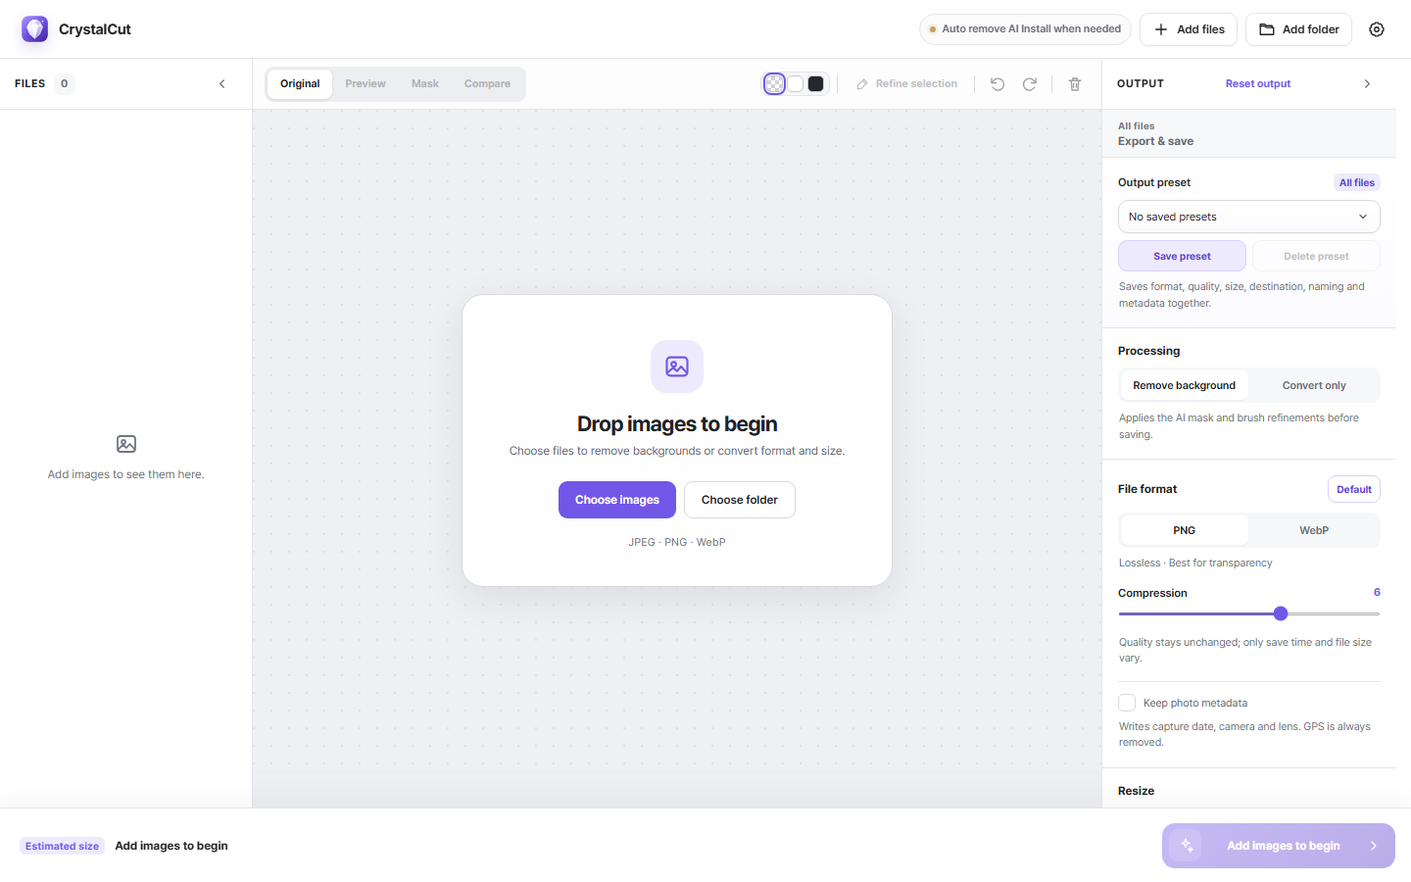
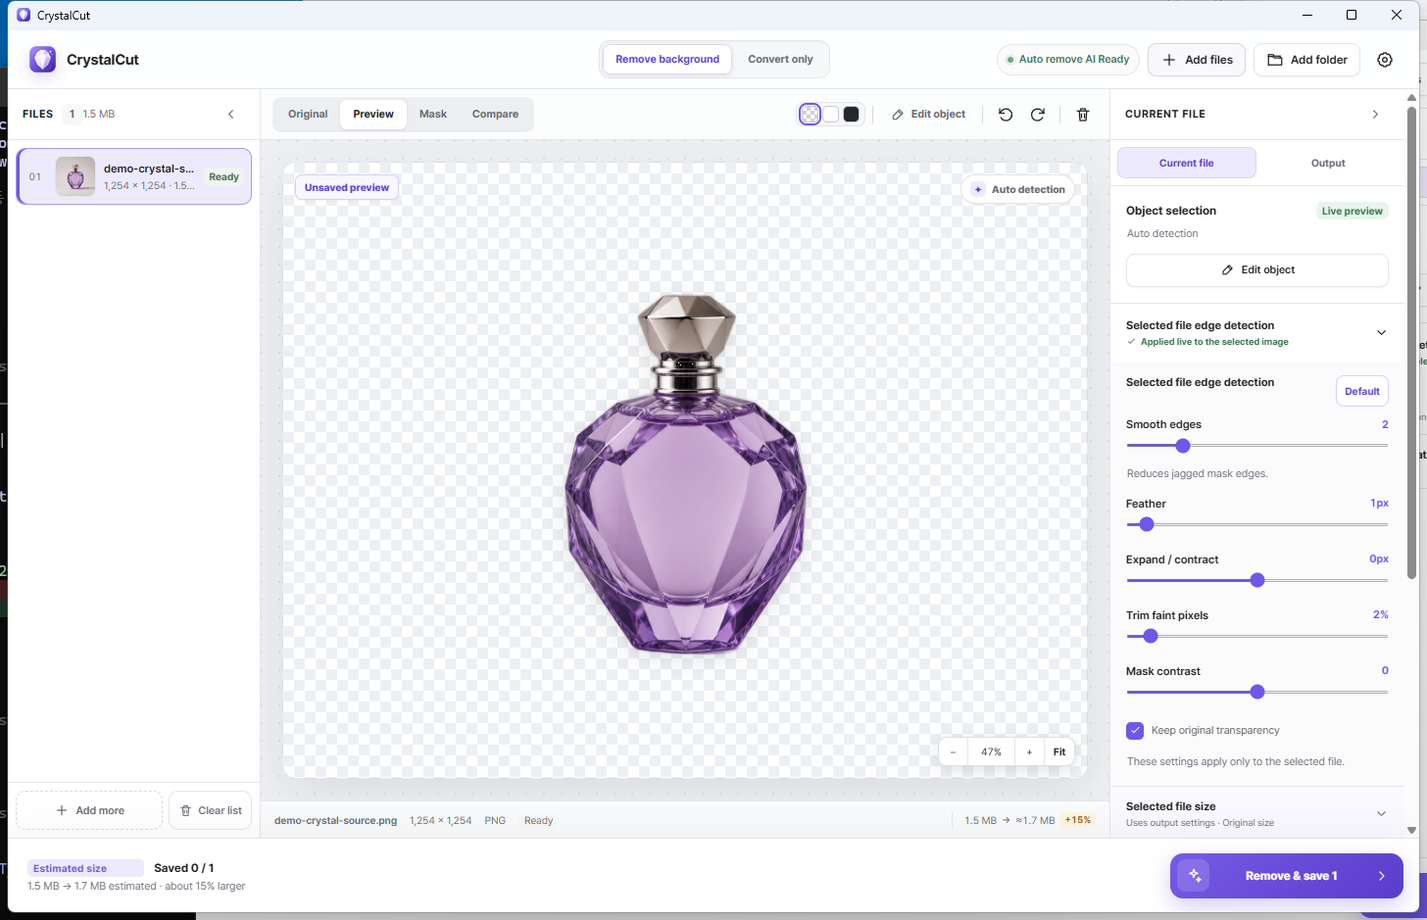
docs: v1.0.2 릴리스 문서와 최신 화면 정비
- 현재 UI로 작업 화면 스크린샷을 교체하고 투명 결과 비교 화면을 추가했습니다.

- 자동 제거, SlimSAM, 수동 마스크와 파일별 가장자리·크기·메타데이터 설정을 README에 상세히 정리했습니다.

- 다중 선택, 원본·결과 저장, 드래그 순서 변경, 변환 전용 모드와 출력 프리셋 사용법을 반영했습니다.

- 9개 언어 446개 문구, 로컬 처리 원칙, 설치 패키지, 빌드·검증·태그 배포 절차를 최신화했습니다.

- GitHub v1.0.2 릴리스 노트를 전체 주요 기능과 안정성 수정 중심으로 보강했습니다.

- 최신 Clippy에서 오류가 되는 테스트 구조체의 불필요한 기본값 갱신 구문을 제거했습니다.

diff --git a/src-tauri/src/engine.rs b/src-tauri/src/engine.rs
@@ -941,7 +941,6 @@ mod tests {
             gps_latitude: Some(37.5665),
             gps_longitude: Some(126.9780),
             orientation: 6,
-            ..metadata::ExifSummary::default()
         };
 
         for format in [OutputFormat::Png, OutputFormat::Webp] {

diff --git a/README.md b/README.md
@@ -1,11 +1,11 @@
 <p align="center">
-  <img src="assets/app-icon.svg" alt="CrystalCut" width="112" />
+  <img src="assets/app-icon.svg" alt="CrystalCut logo" width="112" />
 </p>
 
 <h1 align="center">CrystalCut</h1>
 
 <p align="center">
-  Fast, local-first background removal and batch image conversion for Windows and macOS.
+  Fast, private background removal and batch image conversion for Windows and macOS.
 </p>
 
 <p align="center">
@@ -13,72 +13,105 @@
   <img alt="Apache License 2.0" src="https://img.shields.io/badge/license-Apache--2.0-blue" />
   <img alt="Tauri 2" src="https://img.shields.io/badge/Tauri-2-24C8DB?logo=tauri&logoColor=white" />
   <img alt="Rust" src="https://img.shields.io/badge/engine-Rust-000000?logo=rust&logoColor=white" />
-  <img alt="Local processing" src="https://img.shields.io/badge/processing-local--first-2f855a" />
+  <img alt="Local-first processing" src="https://img.shields.io/badge/processing-local--first-2f855a" />
   <img alt="9 languages" src="https://img.shields.io/badge/languages-9-4f46e5" />
 </p>
 
 <p align="center">
-  <a href="../../releases/latest"><strong>Download the latest release</strong></a>
+  <a href="https://github.com/pkh31337/CrystalCut/releases/latest"><strong>Download</strong></a>
   ·
-  <a href="#quick-start">Build from source</a>
+  <a href="#features">Features</a>
+  ·
+  <a href="#build-from-source">Build from source</a>
   ·
   <a href="#한국어-안내">한국어 안내</a>
 </p>
 
-CrystalCut turns background removal into a dependable desktop workflow: add one image or a whole folder, review the result instantly, refine the object when needed, and export optimized PNG or WebP files with one click. Images stay on your computer; only the pinned AI model files are downloaded on first use.
+CrystalCut turns background removal into a practical desktop workflow. Add one image or a whole folder, inspect the result immediately, refine the selected object when necessary, and export optimized PNG or WebP files. Images remain on your computer; only pinned AI model files are downloaded on first use.
 
-![CrystalCut workspace](docs/assets/crystalcut-workspace.png)
+![CrystalCut workspace showing a transparent result and per-file controls](docs/assets/crystalcut-workspace.png)
 
-## Why CrystalCut?
+## Features
 
-| | Capability |
+| Capability | What it provides |
 | --- | --- |
-| **Private by design** | Background removal, previews, brush masks, resizing, metadata handling and encoding run locally. Images are not uploaded. |
-| **Fast batch workflow** | Drag in files or folders, preload thumbnails, process a queue, cancel safely, and retry only unfinished items. |
-| **Editable AI results** | Use automatic removal, SlimSAM object selection, a keep/remove brush, undo/redo and per-file edge controls. |
-| **More than a remover** | Convert without removing the background, rotate, resize, compress and rename an entire batch. |
-| **Predictable output** | Preview names and estimated sizes, avoid accidental overwrites, and save complete output presets. |
-| **Native desktop feel** | Tauri 2 shell, Rust processing engine, native pickers, app-specific context menus and no release console window on Windows. |
+| **Private by design** | Background removal, previews, masks, resizing, metadata handling, and encoding all run locally. Source images are never uploaded. |
+| **Three selection modes** | Start with automatic detection, guide SlimSAM with include/exclude marks, or paint a selection manually from an empty mask. |
+| **Live visual refinement** | Inspect the original, result, mask, or draggable comparison view while adjusting the selected file's edge settings. |
+| **Efficient file management** | Immediate thumbnails, multi-selection, drag reordering, original/result export, safe cancellation, and unfinished-item retry. |
+| **Flexible output** | Remove the background or convert only; resize, rotate, compress, rename, choose metadata, and save reusable presets. |
+| **Native desktop experience** | A lightweight Tauri 2 shell, Rust image engine, native dialogs, app-specific context menus, and no console window in Windows release builds. |
 
-## A three-step workflow
+## From files to finished assets
 
-1. **Add images** — choose JPEG, PNG or WebP files, select a folder, paste, or drag and drop.
-2. **Review and refine** — inspect the live result, zoom, pan, rotate, view the mask, or drag the comparison slider across the original and edited image.
-3. **Export once or in bulk** — remove backgrounds or convert only, then apply format, quality, size, metadata, destination and naming rules to the queue.
+1. **Add images** — choose JPEG, PNG, or WebP files, add a folder, paste, or drag and drop.
+2. **Select and refine** — use automatic detection, SlimSAM-assisted selection, or manual brushes; then tune edges per file.
+3. **Preview accurately** — zoom, pan, fit, rotate, inspect the mask, or drag the comparison divider across the original and transparent result.
+4. **Export once or in bulk** — apply output format, quality, dimensions, metadata, destination, and naming rules to selected files or the whole queue.
 
-## Editing and preview tools
+## Object selection and edge refinement
 
-- Automatic U2NetP background removal with a verified, pinned model download.
-- SlimSAM-assisted object selection using include/exclude marks.
-- Manual selection from an empty mask and brush refinement over an AI result.
-- Restore/erase brushes, adjustable brush size, undo, redo and clear actions.
-- Original, result, mask and split comparison views.
-- Wheel zoom, toolbar zoom, fit-to-screen and drag-to-pan navigation.
-- Live per-file edge preview for smoothing, feathering, mask expansion/contraction, faint-pixel trimming, contrast and original-alpha preservation.
+CrystalCut keeps the simple path one click away while exposing precise controls when a difficult image needs them.
 
-## Batch output
+- **Automatic detection:** U2NetP finds the primary foreground object without manual input.
+- **AI object selection:** SlimSAM uses include and exclude brush marks to identify the intended object.
+- **Manual selection:** begin with an empty mask and paint the area to keep.
+- Keep/remove brushes with combined brush and plus/minus icons, adjustable size, undo, redo, and clear actions.
+- Per-file smoothing, feathering, expand/contract, faint-pixel trimming, mask contrast, and original-alpha preservation.
+- Opening or closing an accordion only changes the interface; it never enables, disables, or regenerates an effect.
 
-### Formats and size
+## Preview that stays in context
+
+![CrystalCut comparison view with draggable original/result divider](docs/assets/crystalcut-compare.png)
+
+- **Original, Preview, Mask, and Compare** views share one stable canvas and aspect ratio.
+- The 100% zoom reference always uses the original image dimensions, even after transparent areas change the result bounds.
+- Mouse-wheel and toolbar zoom, fit-to-window, and drag-to-pan navigation.
+- Checkerboard, light, or dark preview backgrounds reveal transparent pixels correctly.
+- The comparison divider exposes the transparent result instead of showing the original beneath removed pixels.
+- Edge sliders and brush edits keep the Mask view active when that is the view being inspected.
+- The selected file's dimensions, format, status, and estimated output size remain visible below the preview.
+
+## Work list and multi-file operations
+
+- Thumbnails are generated as soon as files are added.
+- Use <kbd>Ctrl</kbd>/<kbd>Cmd</kbd> or <kbd>Shift</kbd> to select multiple items.
+- Multi-selection opens a focused file-management view for exporting all selected originals or processed results.
+- Drag one item or a selected group to reorder the queue; edge auto-scroll supports long lists.
+- Keyboard and context-menu reordering remain available when dragging is inconvenient.
+- Remove selected files, reveal them in the system file manager, copy paths, or clear the list from app-specific context menus.
+- Workspace state is persisted in SQLite so interrupted jobs and unfinished items can be recovered safely.
+
+## Output and conversion
+
+### Formats, quality, and dimensions
 
 - Input: **JPEG, PNG, WebP**
 - Output: **PNG, lossy WebP, lossless WebP**
-- Keep original dimensions, resize by percentage, or set the long edge in pixels.
-- Prevent upscaling of smaller source images.
-- Tune WebP quality or PNG compression effort and see an estimated size change before export.
-- Switch to **Convert only** to keep the background while applying rotation, resize, format and compression.
+- Adjust WebP quality or PNG compression and review an estimated size change before export.
+- Keep original dimensions, resize by percentage, or set the global long edge in pixels.
+- Override the global resize for one file with either an output width or height. Aspect ratio stays locked and upscaling can be prevented.
+- Rotate a selected image in 90-degree steps.
+- Choose **Convert only** to preserve the background while applying rotation, resize, format, compression, metadata, naming, and destination rules.
 
-### Destination and naming
+### Destination, naming, and presets
 
-- Save beside each original, into a new neighboring folder, or into one chosen folder.
-- Add a prefix or suffix, or build a reusable file-name template.
+- Save beside each original, in a new neighboring folder, or in one chosen folder.
+- Add a prefix or suffix, or create a reusable file-name template.
 - Available tokens: `{name}`, `{prefix}`, `{suffix}`, `{taken:yyMMdd_HHmmss}`, `{seq:03}`, `{camera}`, `{lens}`.
-- Missing EXIF values resolve deterministically to `undated`, `unknown-camera` and `unknown-lens`.
+- Missing EXIF values resolve deterministically to `undated`, `unknown-camera`, and `unknown-lens`.
 - Existing files are never overwritten silently; CrystalCut creates `name (2).png`, and so on.
-- Save format, quality, size, destination, naming and metadata as an output preset.
+- Save and restore the entire output configuration as a preset.
 
 ### Metadata and privacy
 
-CrystalCut reads a focused metadata summary for review, rotation and naming: capture date, camera, lens, description, recognized generation prompt/workflow and GPS coordinates. Output metadata is rebuilt field by field instead of copying the full original EXIF block. Capture details and descriptions can be preserved, while GPS and generation data are opt-in and disabled by default. Metadata edits affect new output files only; originals are never modified.
+CrystalCut reads a focused metadata summary for review, orientation, and naming: capture date, camera, lens, description, recognized generation prompt/workflow, and GPS coordinates. Output metadata is rebuilt field by field instead of copying an opaque EXIF block.
+
+- Preserve safe capture details and descriptions globally or override the policy for one selected file.
+- GPS location and generation prompts are separate opt-in choices and are disabled by default.
+- Edit important values for the selected file before export.
+- Disabling metadata preservation also disables and clears its dependent GPS and prompt choices.
+- Edits apply only to newly exported files; source files are never modified.
 
 ## Languages
 
@@ -94,49 +127,45 @@ CrystalCut follows the operating-system language by default and can be changed i
 - Français
 - Português (Brasil)
 
-All 355 interface messages—including toasts, errors, confirmations, context menus and accessibility labels—are covered in every supported locale. The build fails if a locale is missing a message.
+All 446 interface messages—including toasts, errors, confirmations, context menus, tooltips, and accessibility labels—are complete in every locale. An automated consistency check fails the build if a locale is missing a message or if an untranslated Korean UI literal escapes the catalogs.
 
 ## Download and installation
 
-Open [GitHub Releases](../../releases/latest) and choose the package for your computer:
+Open [GitHub Releases](https://github.com/pkh31337/CrystalCut/releases/latest) and choose the package for your computer:
 
-- **Windows x64:** the `setup.exe` installer is the simplest option; `.msi` is also published for managed environments.
-- **macOS Apple Silicon:** for M1, M2, M3, M4 and newer Apple chips.
+- **Windows x64:** use `setup.exe` for a standard installation or `.msi` for managed deployment.
+- **macOS Apple Silicon:** for Macs with M1, M2, M3, M4, or newer Apple chips.
 - **macOS Intel:** for older Intel-based Macs.
 
-Current community builds are unsigned. Windows SmartScreen or macOS Gatekeeper may therefore ask you to confirm the first launch. Code signing is intentionally kept separate from the public build workflow until signing credentials are configured.
+Community builds are currently unsigned. Windows SmartScreen or macOS Gatekeeper may therefore ask you to confirm the first launch. Code signing and notarization can be added later without placing credentials in the repository.
 
-The removal model and SlimSAM files are not bundled into the installer. They are downloaded only when needed, verified against pinned size/hash metadata, and cached in the application data folder. After installation, first-time AI use therefore requires an internet connection.
+The U2NetP and SlimSAM model files are not bundled in the installer. They are downloaded only when required, verified against pinned size and hash metadata, and cached in the application data folder. The first use of each AI feature therefore requires an internet connection; image processing itself stays local.
 
 ## Architecture
 
-```text
-React + TypeScript UI
-        │  typed Tauri commands / events
-        ▼
-Rust desktop coordinator ─── SQLite workspace and preferences
-        │  versioned JSONL over stdio
-        ▼
-Same executable in --worker mode
-        ├── ONNX Runtime inference (U2NetP / SlimSAM)
-        ├── mask and edge processing
-        └── rotate, resize, metadata and PNG/WebP encoding
+```mermaid
+flowchart LR
+    UI[React + TypeScript UI] -->|typed Tauri IPC| CORE[Rust desktop coordinator]
+    CORE --> DB[(SQLite workspace)]
+    CORE -->|versioned JSONL over stdio| WORKER[Same executable in worker mode]
+    WORKER --> AI[ONNX Runtime<br/>U2NetP and SlimSAM]
+    WORKER --> PIPE[Mask, edge, rotate,<br/>resize, metadata, PNG/WebP]
 ```
 
-The UI process never performs heavy image work. The worker can be restarted once after an unexpected communication failure, and completed output is recovered without saving a duplicate. Workspace state uses SQLite WAL and is revalidated when the app reopens.
+Heavy image work never runs in the UI process. The coordinator can restart the worker once after an unexpected communication failure, and it recognizes completed output without writing a duplicate. Workspace state uses SQLite WAL and is revalidated when the app opens.
 
-## Quick start
+## Build from source
 
 ### Prerequisites
 
-- Node.js 20 or newer (CI uses Node.js 22)
+- Node.js 20 or newer (release CI uses Node.js 22)
 - Rust stable toolchain
 - [Tauri 2 platform prerequisites](https://v2.tauri.app/start/prerequisites/) for Windows or macOS
 
 ### Run the desktop app
 
 ```powershell
-git clone <your-fork-or-repository-url>
+git clone https://github.com/pkh31337/CrystalCut.git
 cd CrystalCut
 npm ci
 npm run tauri dev
@@ -148,92 +177,93 @@ To inspect only the React interface in a browser:
 npm run dev
 ```
 
-Native file inspection, AI inference and export require the Tauri desktop runtime and are intentionally unavailable in browser-only mode.
+Native file inspection, AI inference, and export require the Tauri desktop runtime and are intentionally unavailable in browser-only mode.
 
-## Validation
+## Validation and packaging
 
 ```powershell
 npm run build
-npm run check:release
+npm run check:release -- v1.0.2
 cargo fmt --manifest-path src-tauri/Cargo.toml --check
 cargo clippy --manifest-path src-tauri/Cargo.toml --all-targets -- -D warnings
 cargo test --manifest-path src-tauri/Cargo.toml
 npm run build:desktop
+npm run build:bundle
 ```
 
 - `npm run build:desktop` creates an unbundled production executable for local verification.
 - `npm run build:bundle` creates the installers supported by the current operating system.
-- Do not run `cargo build --release` directly: the build guard prevents a release binary from accidentally retaining the development-server URL.
+- Do not run `cargo build --release` directly. A build guard prevents a production executable from accidentally retaining the Vite development-server URL.
 
-## Publishing a GitHub release
+## Publishing a release
 
-The repository includes [`.github/workflows/release.yml`](.github/workflows/release.yml). Pushing a version tag builds Windows x64, macOS Apple Silicon and macOS Intel packages in parallel, creates a GitHub Release and uploads each installer.
+The tag-driven [release workflow](.github/workflows/release.yml) validates that the tag matches all application manifests, builds Windows x64, macOS Apple Silicon, and macOS Intel packages in parallel, creates a GitHub Release titled `CrystalCut v__VERSION__`, and uploads each installer.
 
-Before tagging, keep the version identical in these three files:
+Keep the version identical in:
 
 - `package.json`
 - `src-tauri/tauri.conf.json`
 - `src-tauri/Cargo.toml`
 
-Then validate and push the matching tag:
+Then validate and push an annotated tag:
 
 ```powershell
-npm run check:release
-git tag v1.0.2
+npm run check:release -- v1.0.2
+git tag -a v1.0.2 -m "CrystalCut v1.0.2"
+git push origin main
 git push origin v1.0.2
 ```
 
-The workflow rejects a tag that does not match the application version and uploads installers as GitHub Release assets. The workflow uses the official Tauri release action pinned to an explicit version; add Windows and Apple signing secrets later without committing certificates or passwords.
-
-> Intel macOS compatibility: CrystalCut pins `ort` to `2.0.0-rc.10`, the newest release that still provides an `x86_64-apple-darwin` ONNX Runtime binary. Do not upgrade it independently while Intel macOS remains in the release matrix.
+> **Intel macOS note:** CrystalCut pins `ort` to `2.0.0-rc.10`, the newest compatible release that still publishes an `x86_64-apple-darwin` ONNX Runtime binary. Do not upgrade it independently while Intel macOS remains in the release matrix.
 
 ## Project layout
 
 ```text
 assets/                 Brand source artwork
-docs/                   Product, UX, model and localization decisions
+docs/                   Product, UX, model, and localization decisions
 models/manifest/        Pinned background-removal model metadata
 scripts/                Build and consistency checks
 src/                    React UI and locale catalogs
-src-tauri/src/          Rust coordinator, worker, inference and image pipeline
+src-tauri/src/          Rust coordinator, worker, inference, and image pipeline
 .github/workflows/      Cross-platform GitHub Release automation
 ```
 
-## Current limitations and roadmap
+## Current limitations
 
-- U2NetP is the lightweight baseline. Hair, glass, fur and other difficult edges still need broader BiRefNet-style model benchmarking.
-- Processing is CPU-first; DirectML/CoreML selection remains disabled until quality and recovery behavior are validated.
-- The first model download can take time depending on the network.
-- Public builds are not yet code-signed or notarized.
-- Installer and model licenses must be reviewed together with [third-party notices](THIRD_PARTY_NOTICES.md) before commercial redistribution.
+- U2NetP is the lightweight baseline; hair, fur, glass, and other difficult edges may still need manual refinement.
+- Processing is CPU-first. DirectML and CoreML execution remain disabled until quality and recovery behavior are validated.
+- The first model download duration depends on network speed.
+- Public installers are not yet code-signed or notarized.
+- Third-party software and AI model terms must be reviewed before commercial redistribution.
 
-Well-scoped bug reports are welcome. For processing issues, include the OS, CPU architecture, CrystalCut version, model status and the diagnostics shown in Settings—without attaching private source images unless you choose to share them.
+Well-scoped bug reports are welcome. Include the OS, CPU architecture, CrystalCut version, model status, and diagnostics shown in Settings. Do not attach private source images unless you explicitly choose to share them.
 
 ## License
 
-CrystalCut source code is available under the [Apache License 2.0](LICENSE). Third-party software and AI model assets retain their own licenses; review [THIRD_PARTY_NOTICES.md](THIRD_PARTY_NOTICES.md) before redistribution. The CrystalCut name and logo are not granted as trademarks by the source-code license.
+CrystalCut source code is available under the [Apache License 2.0](LICENSE). Third-party software and AI model assets retain their own licenses; review [THIRD_PARTY_NOTICES.md](THIRD_PARTY_NOTICES.md) before redistribution. The source-code license does not grant trademark rights to the CrystalCut name or logo.
 
 ## Documentation
 
-- [Product and architecture plan (Korean)](docs/01_PRODUCT_ARCHITECTURE_PLAN.ko.md)
-- [Implementation status (Korean)](docs/02_IMPLEMENTATION_STATUS.ko.md)
-- [Manual masks and settings plan (Korean)](docs/03_MANUAL_MASK_AND_SETTINGS_PLAN.ko.md)
-- [SAM integration plan (Korean)](docs/04_SAM_INTEGRATION_PLAN.ko.md)
-- [Third-party AI model notices (Korean)](docs/05_THIRD_PARTY_MODELS.ko.md)
-- [UI/UX audit (Korean)](docs/06_UI_UX_AUDIT_PLAN.ko.md)
-- [Localization implementation plan (Korean)](docs/07_LOCALIZATION_IMPLEMENTATION_PLAN.ko.md)
-- [ADR: Tauri instead of Electron (Korean)](docs/adr/01_tauri-over-electron.ko.md)
+- [제품 및 아키텍처 계획](docs/01_PRODUCT_ARCHITECTURE_PLAN.ko.md)
+- [구현 현황](docs/02_IMPLEMENTATION_STATUS.ko.md)
+- [수동 마스크와 설정 계획](docs/03_MANUAL_MASK_AND_SETTINGS_PLAN.ko.md)
+- [SAM 통합 계획](docs/04_SAM_INTEGRATION_PLAN.ko.md)
+- [서드파티 AI 모델 고지](docs/05_THIRD_PARTY_MODELS.ko.md)
+- [UI/UX 검토 계획](docs/06_UI_UX_AUDIT_PLAN.ko.md)
+- [다국어 구현 계획](docs/07_LOCALIZATION_IMPLEMENTATION_PLAN.ko.md)
+- [ADR: Electron 대신 Tauri](docs/adr/01_tauri-over-electron.ko.md)
 
 ## 한국어 안내
 
-CrystalCut은 Windows와 macOS에서 동작하는 로컬 우선 배경 제거·일괄 이미지 변환 앱입니다. 이미지나 폴더를 추가한 뒤 자동 배경 제거 결과를 즉시 확인하고, 필요할 때 AI 객체 선택 또는 유지·제거 브러시로 보정할 수 있습니다. 배경을 지우지 않고 회전·크기·형식·압축만 일괄 적용하는 변환 모드도 제공합니다.
+CrystalCut은 Windows와 macOS에서 작동하는 로컬 우선 배경 제거·일괄 이미지 변환 앱입니다. 파일이나 폴더를 넣으면 자동으로 배경을 제거하며, 필요할 때 SlimSAM 객체 선택 또는 유지·제거 브러시로 결과를 세밀하게 보정할 수 있습니다.
 
-- 원본·결과·마스크·드래그 비교 화면과 확대·축소·이동
-- 파일별 가장자리 감지 설정과 실시간 미리보기
-- PNG/WebP, 화질·압축, 비율·긴 변 크기 변경
-- 같은 폴더·새 폴더·지정 폴더 저장과 EXIF 기반 파일명
+- 원본·미리보기·마스크·드래그 비교 화면과 확대·축소·이동
+- 선택 파일별 가장자리 감지 및 가로/세로 출력 크기 재정의
+- 여러 파일 선택, 원본·결과 일괄 저장, 드래그 순서 변경
+- PNG/WebP 형식, 화질·압축, 비율·긴 변 기준 크기 변경
+- 같은 폴더·새 폴더·지정 폴더 저장과 EXIF 기반 파일명 템플릿
 - 출력 프리셋, 작업 자동 복구, 안전한 취소·재시도
-- 촬영일·카메라·렌즈·설명 선택 보존, GPS·생성 프롬프트는 기본 제외 후 선택 가능
-- 시스템 언어 자동 감지 및 9개 언어 완전 지원
+- 촬영 정보·GPS·생성 프롬프트의 전역/파일별 보존 및 편집 정책
+- 시스템 언어 자동 감지와 9개 언어 지원
 
-이미지는 외부 서버로 전송되지 않습니다. 최초 AI 기능 사용 시 검증된 모델 파일만 내려받으며, 이후에는 앱 데이터 폴더의 로컬 캐시를 사용합니다. 일반 사용자는 [Releases](../../releases/latest)에서 운영체제에 맞는 설치 파일을 받으면 됩니다.
+이미지는 외부 서버로 전송되지 않습니다. AI 모델은 최초 사용 시 한 번 다운로드하고 검증한 뒤 로컬 캐시에서 사용합니다. 일반 사용자는 [Releases](https://github.com/pkh31337/CrystalCut/releases/latest)에서 운영체제에 맞는 설치 파일을 받으면 됩니다.
